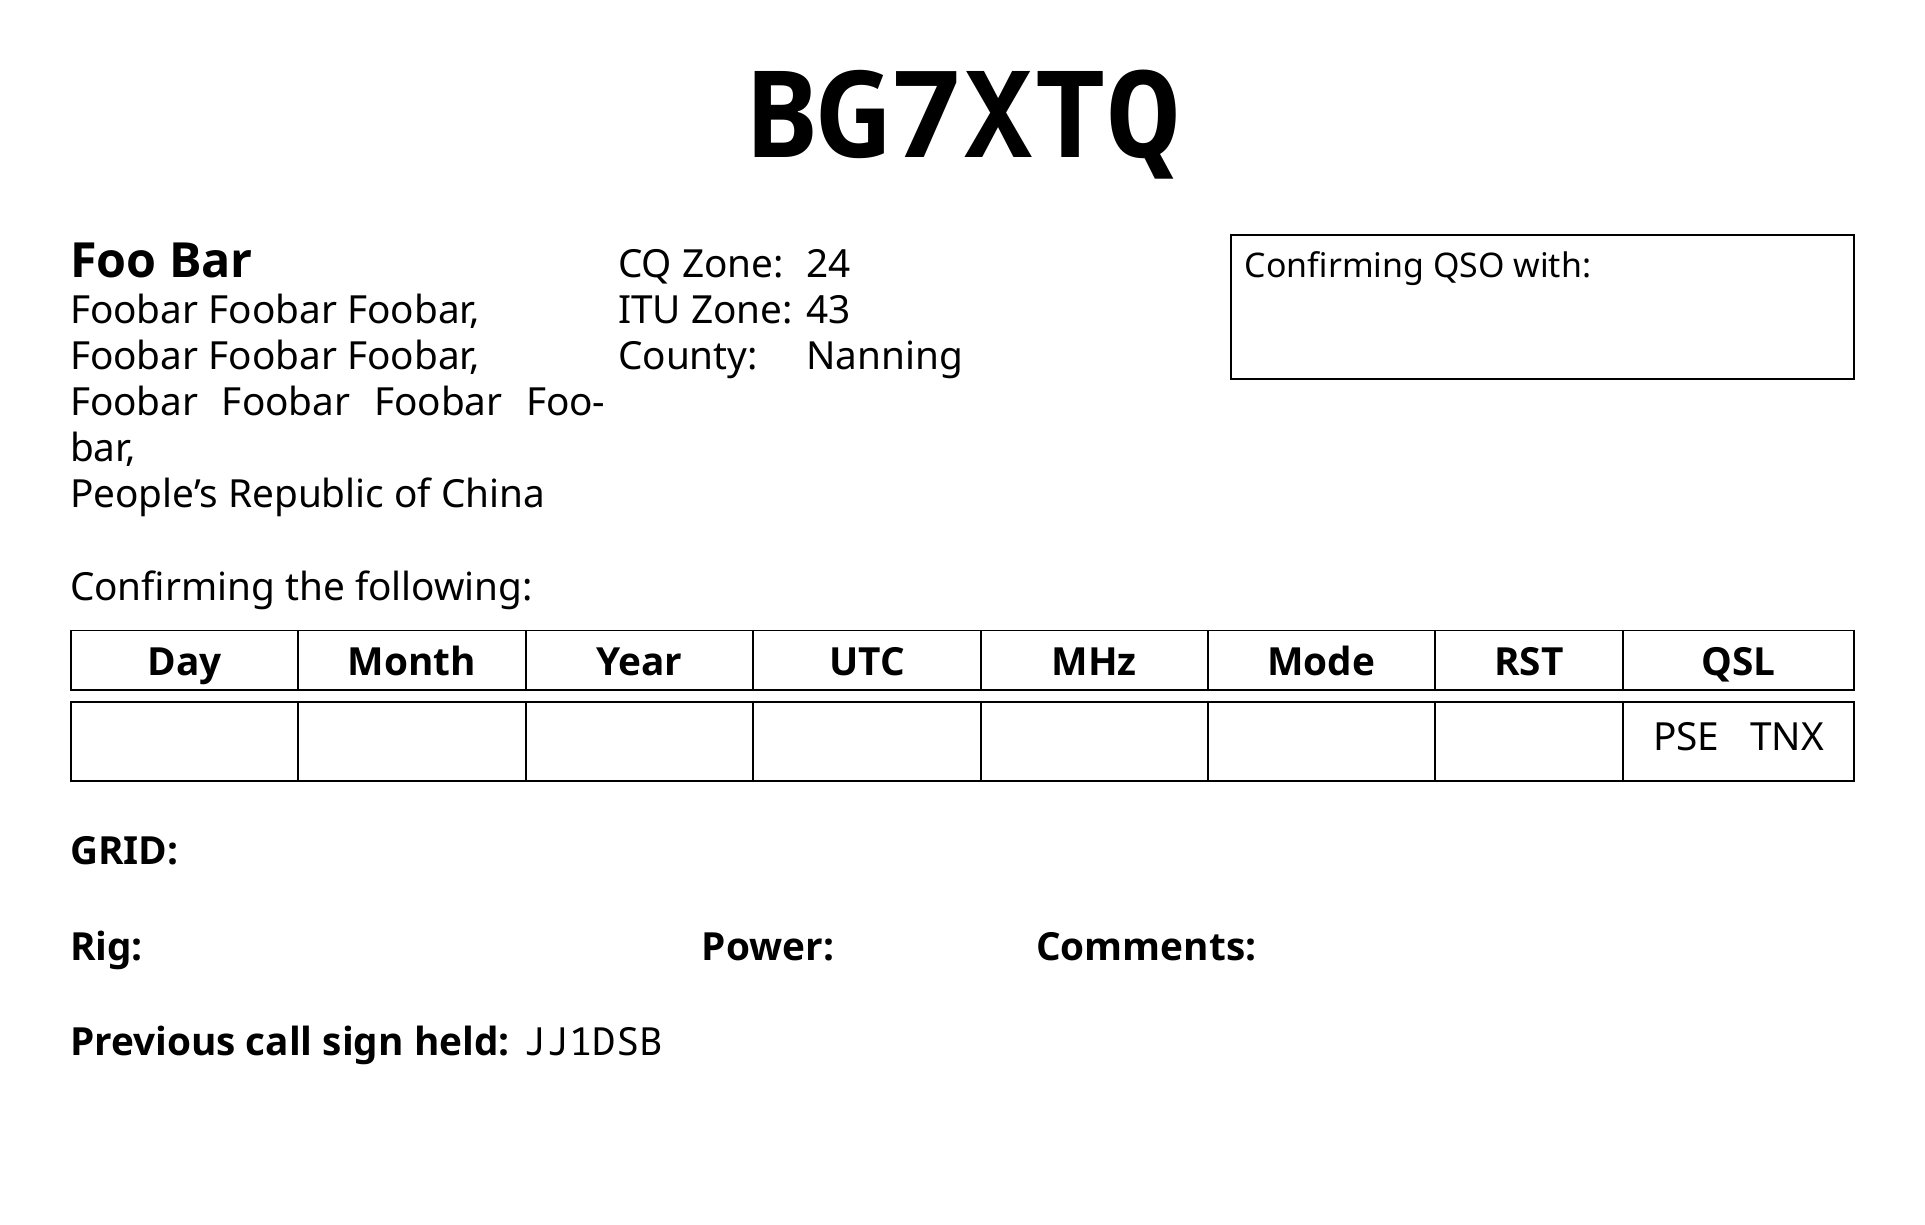
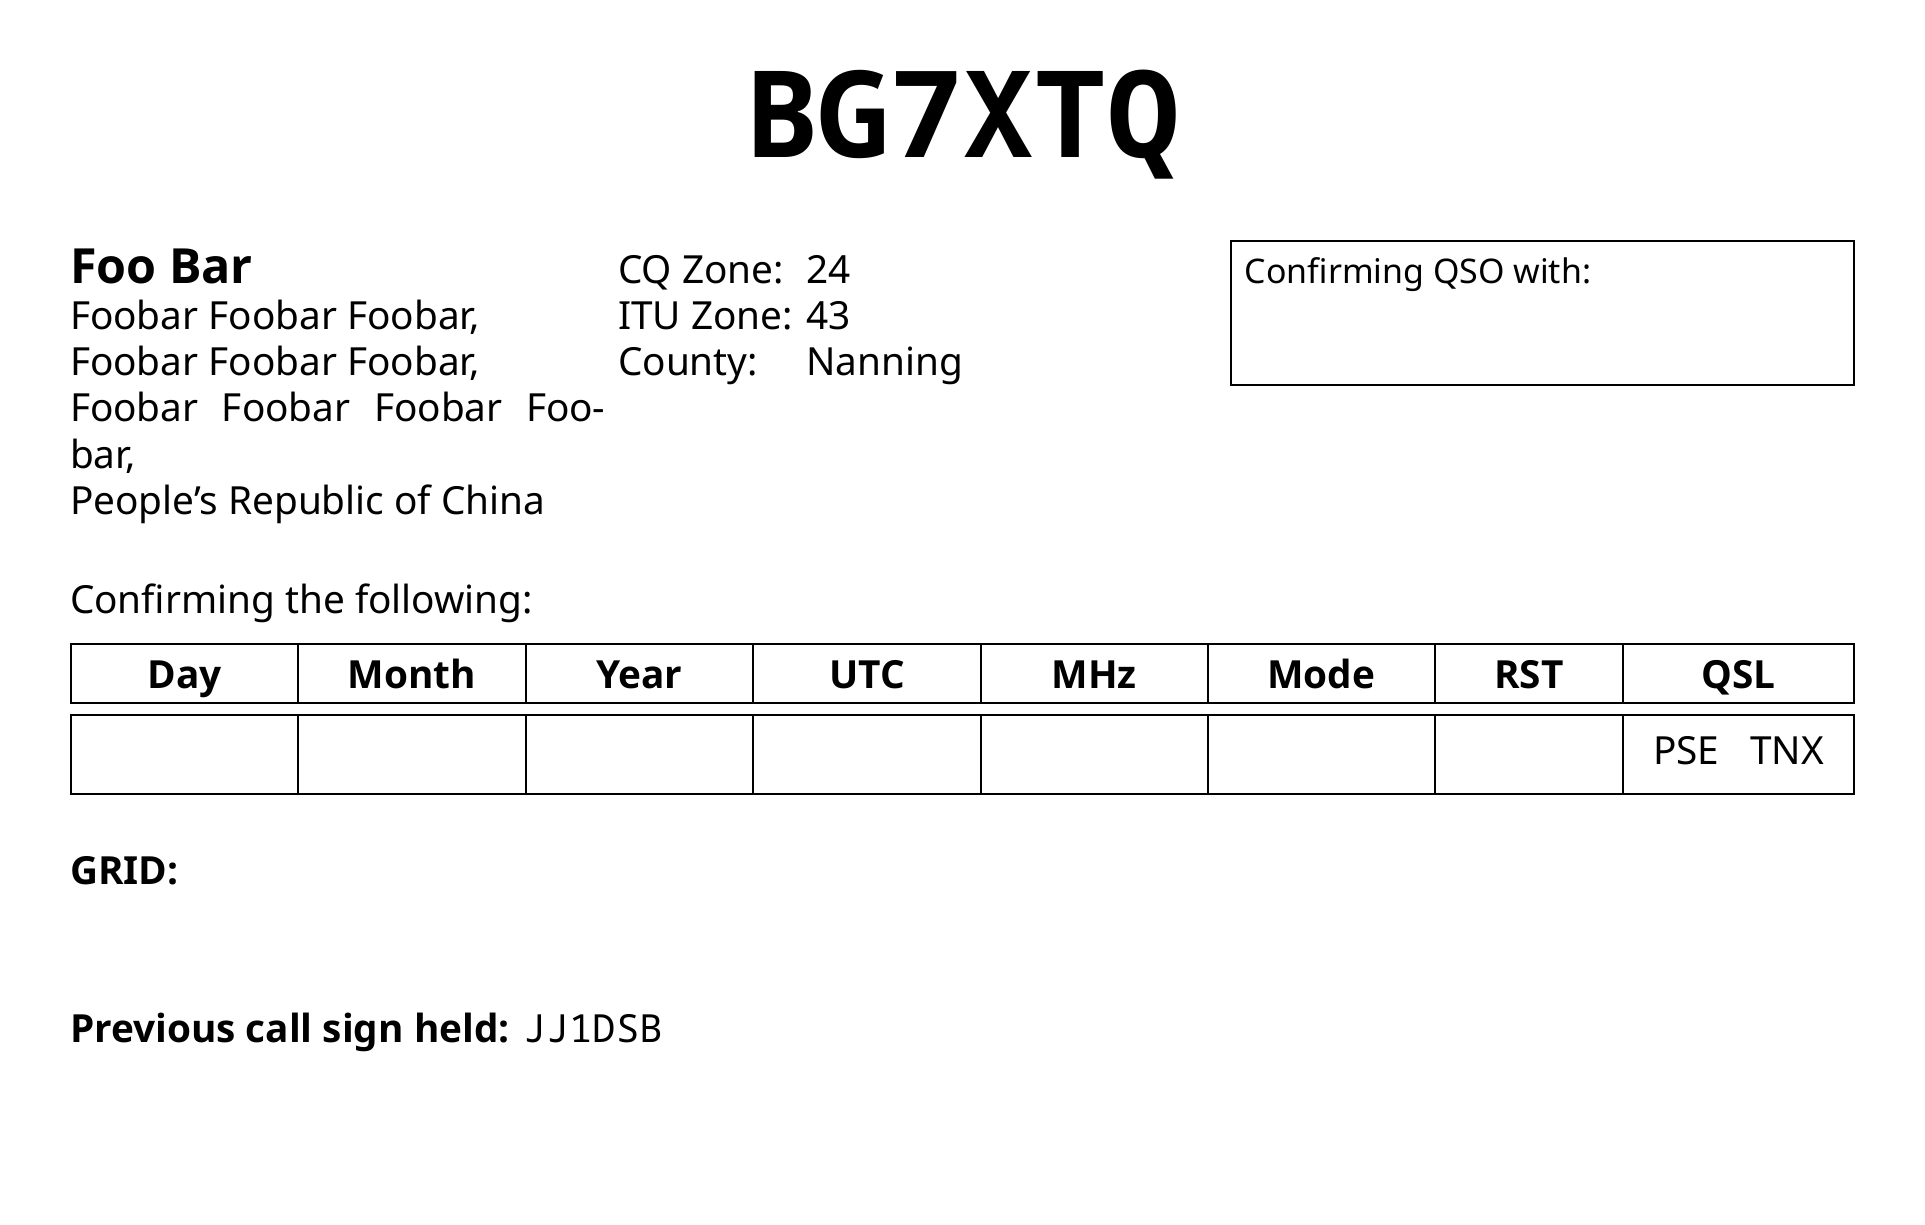
移除不太需要的Rig栏

diff --git a/BG7XTQ.tex b/BG7XTQ.tex
@@ -84,7 +84,7 @@
      %\texttt{OL42et} \,
 \vfill
 
-\footnotesize \textbf{Rig:} \makebox[0.3\textwidth]{} \textbf{Power:} \makebox[0.1\textwidth]{} \textbf{Comments:}
+%\footnotesize \textbf{Rig:} \makebox[0.3\textwidth]{} \textbf{Power:} \makebox[0.1\textwidth]{} \textbf{Comments:}
 %\footnotesize \textbf{Rig:} Baofeng UV-5R \makebox[0.1\textwidth]{} \textbf{Power:} 5W \makebox[0.1\textwidth]{} \textbf{Comments:}
 
 \vfill
